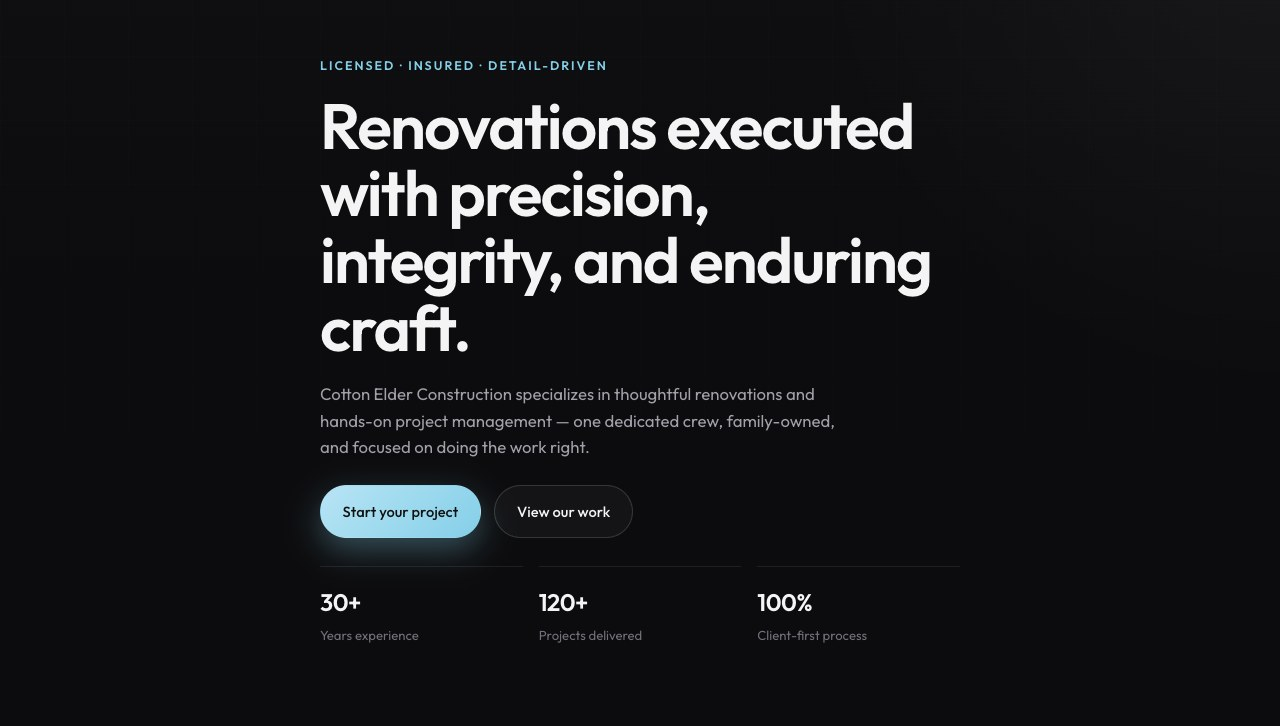
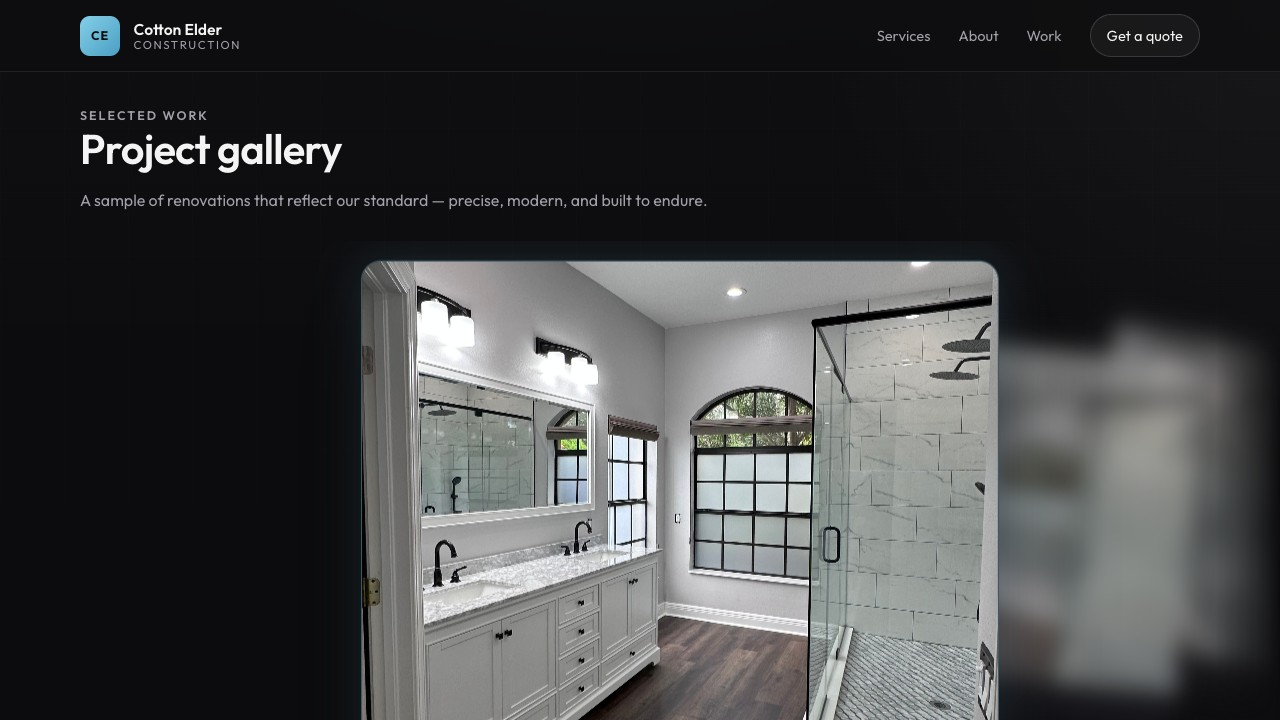
Fix Cotton Elder portfolio card image with a visible gallery screenshot.
The previous hero capture was almost entirely black and disappeared against the card overlay.

diff --git a/index.html b/index.html
@@ -99,7 +99,7 @@
 
         <div class="project-card">
           <img
-            src="assets/cotton-elder-hero.jpg"
+            src="assets/cotton-elder-hero.jpg?v=2"
             alt="Cotton Elder Construction website hero"
             width="1280"
             height="800"